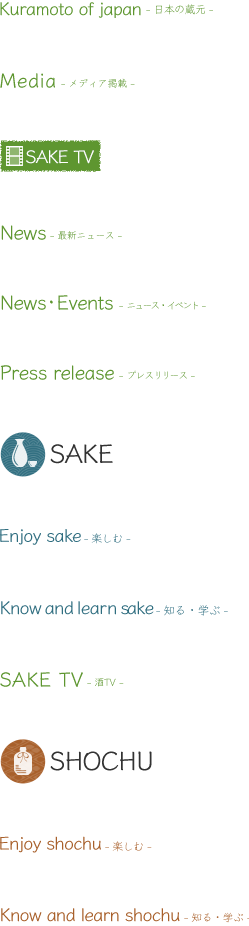
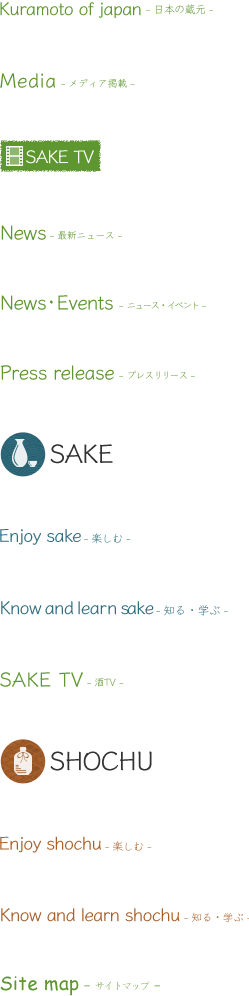
add sitemap image

diff --git a/src/main/webapp/WEB-INF/resources/blog/css/index-en.css b/src/main/webapp/WEB-INF/resources/blog/css/index-en.css
@@ -10,23 +10,25 @@
 .title-learn,
 .title-kura,
 .title-pressrelease,
-.title-tv {
+.title-tv,
+.title-sitemap {
 	background: url('../img/title-en.png') no-repeat top left;
 }
 
-.title-kura { background-position: 0 0; width: 215px; height: 20px; }
-.title-media { background-position: 0 -70px; width: 137px; height: 20px; }
-.title-movie { background-position: 0 -140px; width: 101px; height: 32px; }
-.title-news { background-position: 0 -222px; width: 124px; height: 20px; }
-.title-newsivents { background-position: 0 -292px; width: 208px; height: 20px; }
-.title-pressrelease { background-position: 0 -362px; width: 197px; height: 20px; }
-.title-sake { background-position: 0 -432px; width: 115px; height: 45px; }
-.title-sake-enjoy { background-position: 0 -527px; width: 133px; height: 21px; }
-.title-sake-learn { background-position: 0 -598px; width: 229px; height: 21px; }
-.title-tv { background-position: 0 -669px; width: 126px; height: 20px; }
-.title-shochu { background-position: 0 -739px; width: 154px; height: 45px; }
-.title-shochu-enjoy { background-position: 0 -834px; width: 153px; height: 21px; }
-.title-shochu-learn { background-position: 0 -905px; width: 249px; height: 21px; }
+.title-kura{ background-position: 0 0; width: 215px; height: 20px; }
+.title-media{ background-position: 0 -70px; width: 137px; height: 20px; }
+.title-movie{ background-position: 0 -140px; width: 101px; height: 32px; }
+.title-news{ background-position: 0 -222px; width: 124px; height: 20px; }
+.title-newsivents{ background-position: 0 -292px; width: 208px; height: 20px; }
+.title-pressrelease{ background-position: 0 -362px; width: 197px; height: 20px; }
+.title-sake{ background-position: 0 -432px; width: 115px; height: 45px; }
+.title-sake-enjoy{ background-position: 0 -527px; width: 133px; height: 21px; }
+.title-sake-learn{ background-position: 0 -598px; width: 229px; height: 21px; }
+.title-saketv{ background-position: 0 -669px; width: 126px; height: 20px; }
+.title-shochu{ background-position: 0 -739px; width: 154px; height: 45px; }
+.title-shochu-enjoy{ background-position: 0 -834px; width: 153px; height: 21px; }
+.title-shochu-learn{ background-position: 0 -905px; width: 249px; height: 21px; }
+.title-sitemap{ background-position: 0 -976px; width: 163px; height: 20px; }
 
 .link-list {
 	background: url('../img/link-list-en.png') no-repeat center center;

diff --git a/src/main/webapp/WEB-INF/resources/blog/css/index-ja.css b/src/main/webapp/WEB-INF/resources/blog/css/index-ja.css
@@ -17,7 +17,8 @@
 .title-media,
 .title-kura,
 .title-pressrelease,
-.title-tv {
+.title-tv,
+.title-sitemap {
   background: url('../img/title.png') no-repeat top left;
 }
 
@@ -30,10 +31,12 @@
 .title-sake-enjoy{ background-position: 0 -432px; width: 136px; height: 21px; }
 .title-sake-learn{ background-position: 0 -503px; width: 227px; height: 21px; }
 .title-sake{ background-position: 0 -574px; width: 120px; height: 45px; }
-.title-tv{ background-position: 0 -669px; width: 108px; height: 20px; }
+.title-saketv{ background-position: 0 -669px; width: 108px; height: 20px; }
 .title-shochu-enjoy{ background-position: 0 -739px; width: 150px; height: 21px; }
 .title-shochu-learn{ background-position: 0 -810px; width: 242px; height: 21px; }
 .title-shochu{ background-position: 0 -881px; width: 104px; height: 45px; }
+.title-sitemap{ background-position: 0 -976px; width: 169px; height: 20px; }
+
 
 .movie-title {
   text-align: center;
